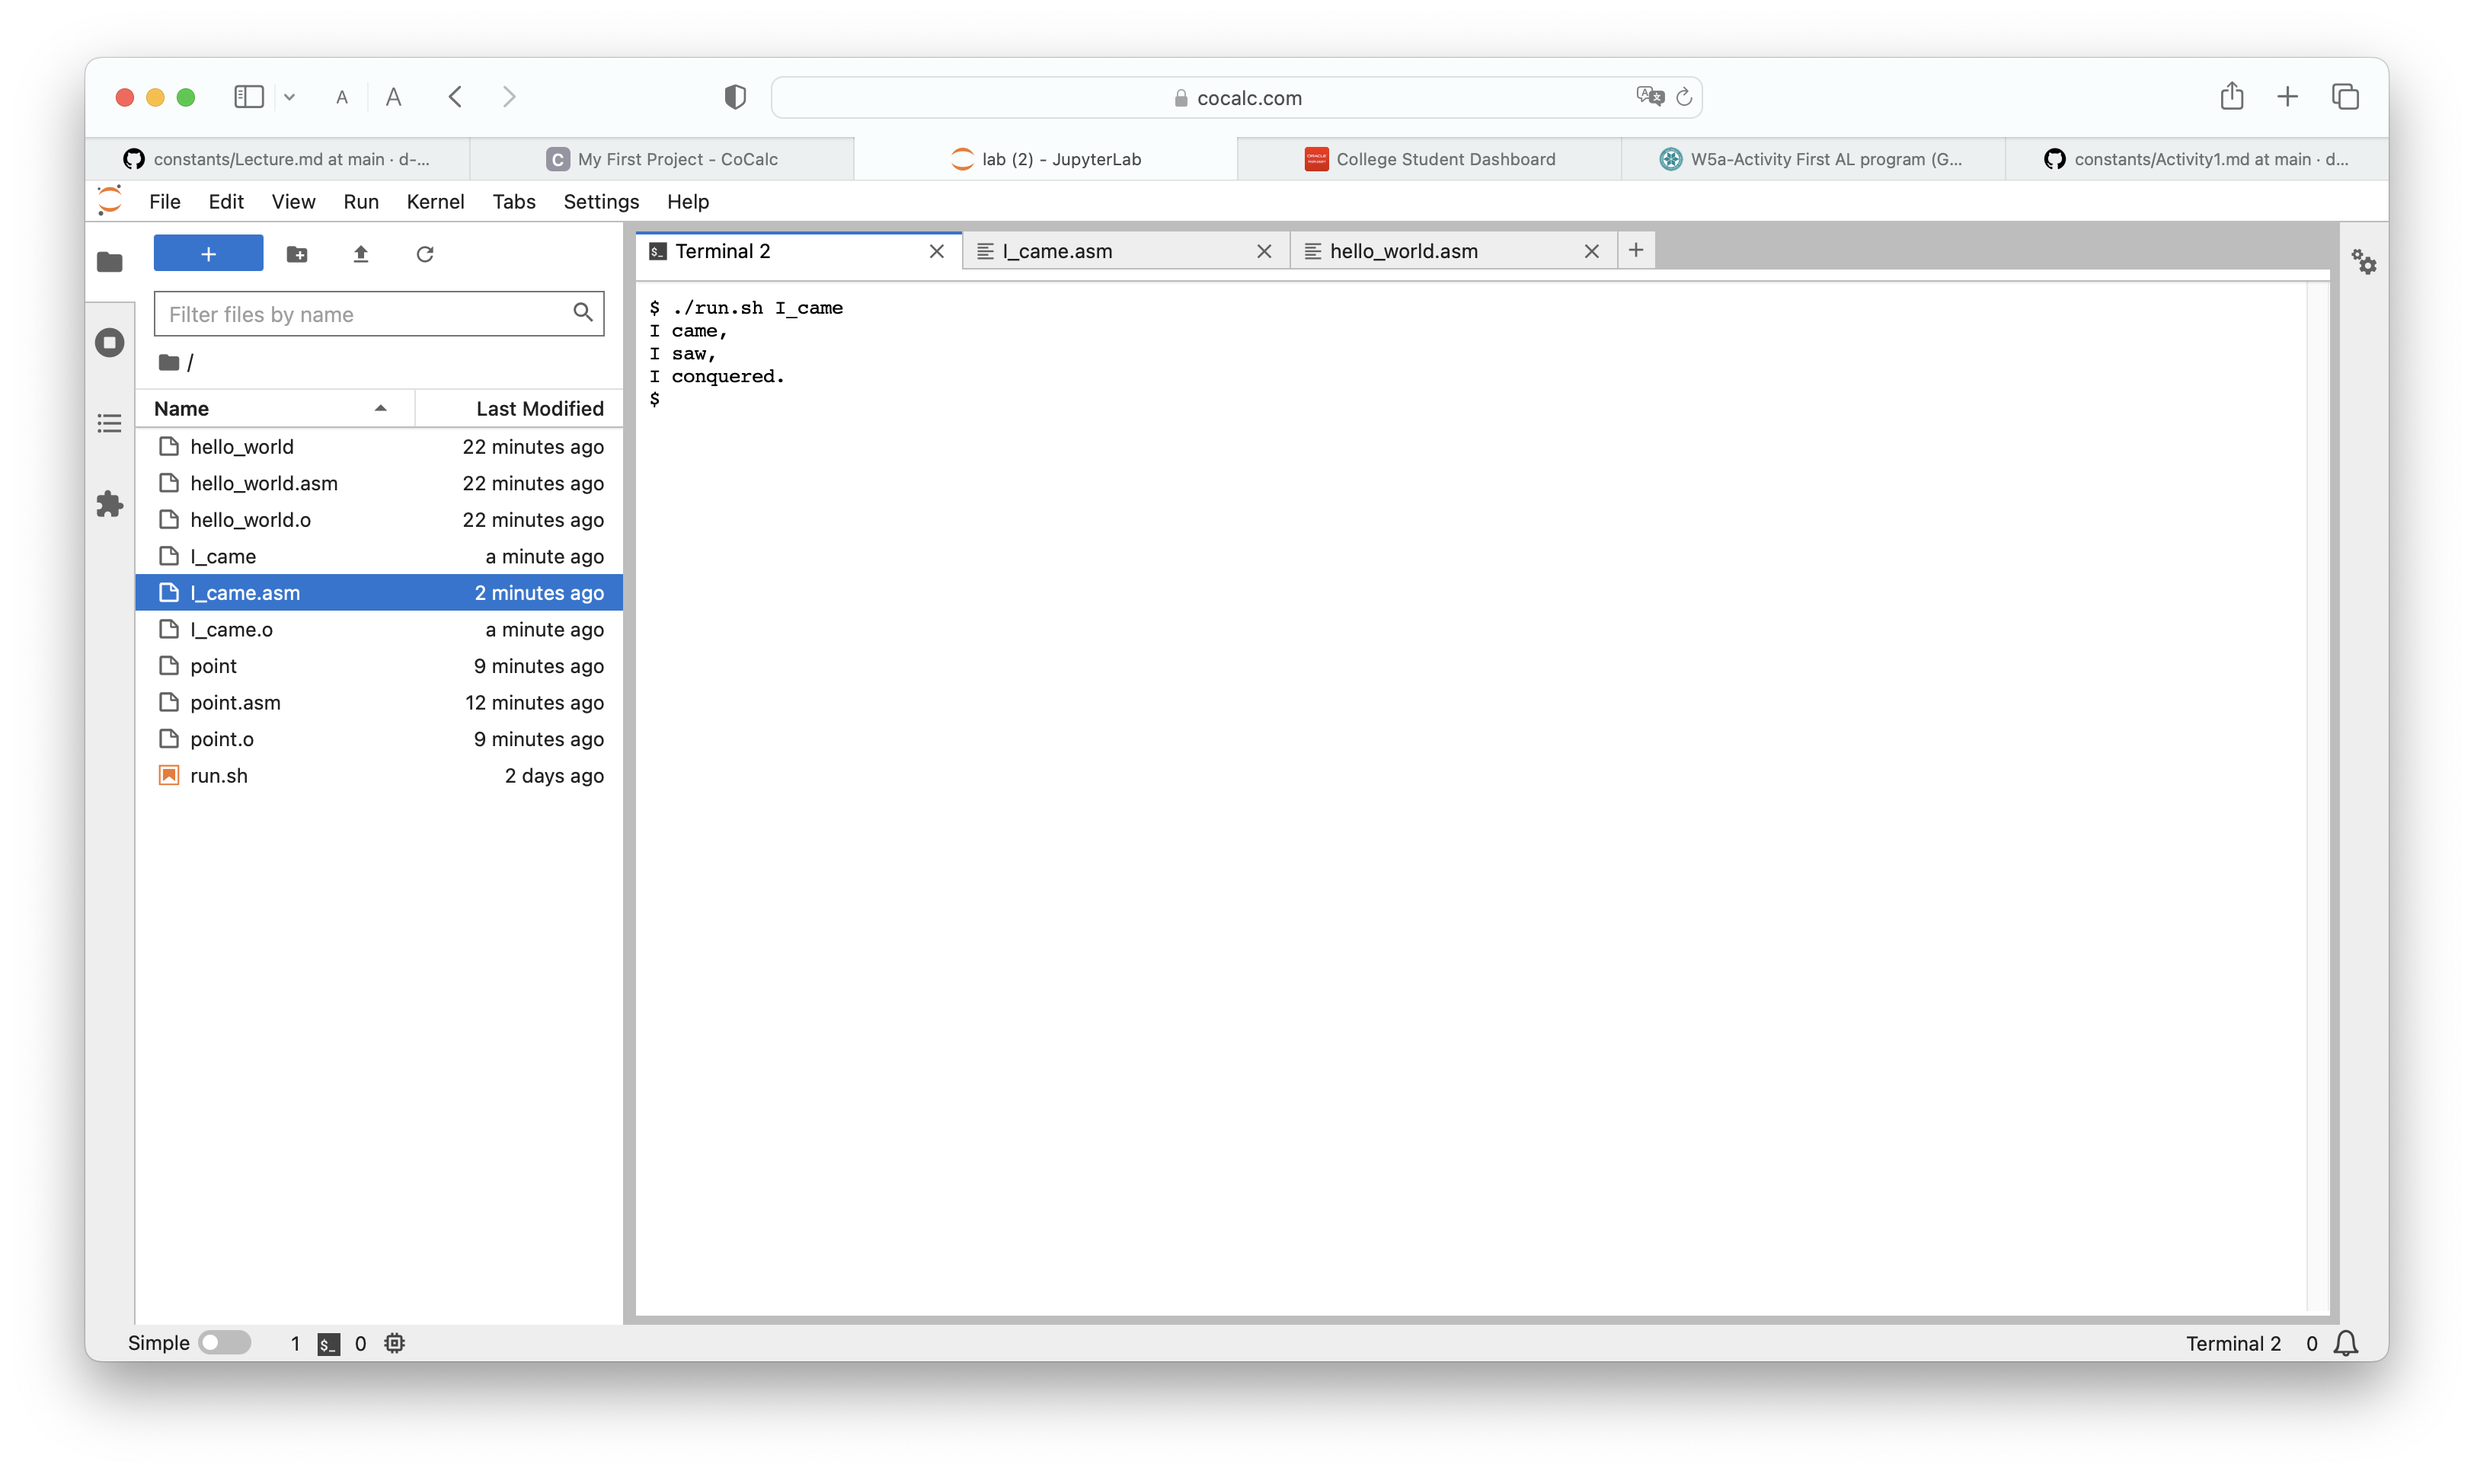
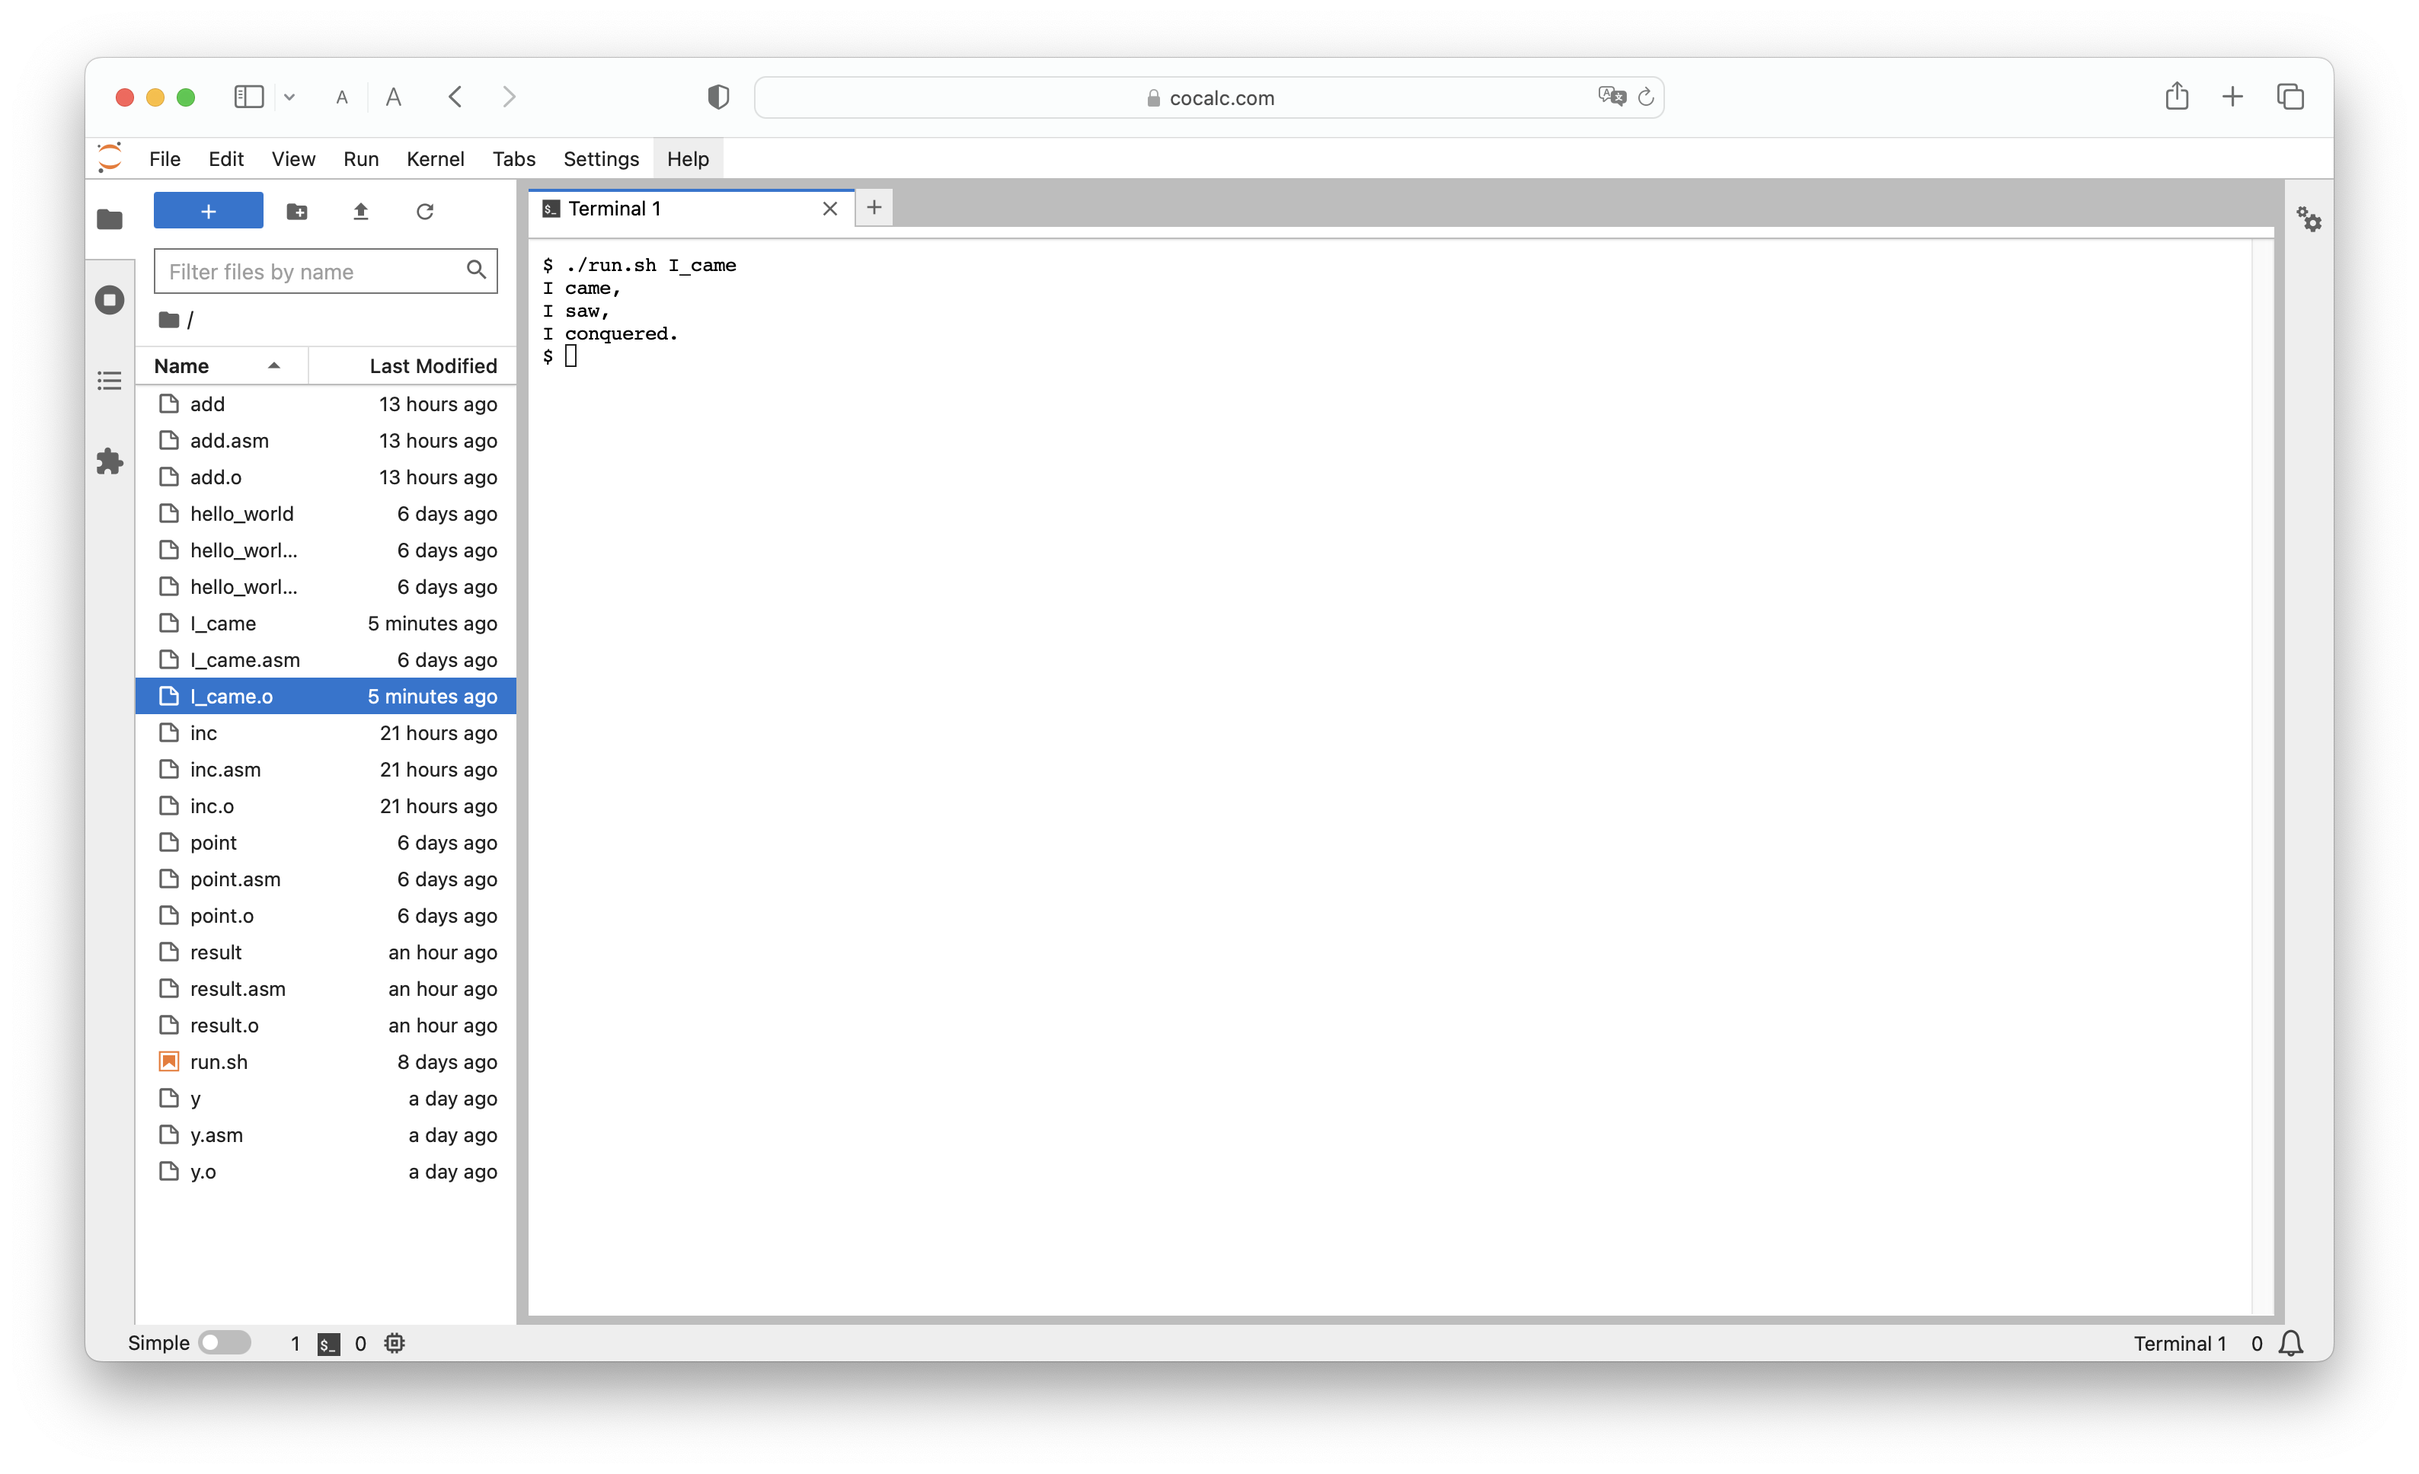
update

Changed region(s): [[0.0312, 0.093, 0.9663, 0.9298], [0.1247, 0.8988, 0.187, 0.9298], [0.0623, 0.8988, 0.0935, 0.9298]]

diff --git a/README.md b/README.md
@@ -1,2 +1,19 @@
 # Assembly_Language
 AL_programming
+
+## Messages
+```
+_start:	            ;tells linker entry point
+   mov	eax,4       ;system call number (sys_write)
+   mov	ebx,1       ;file descriptor (stdout)
+   mov	ecx,msg     ;message to write, A pointer to the variable 'msg'
+   mov	edx,len     ;message length
+   int	0x80        ;call kernel
+	
+   mov	eax,1       ;system call number (sys_exit)
+   int	0x80        ;call kernel
+
+section	.data
+    msg db 'I came,', 0xa, 'I saw,', 0xa, 'I conquered.',0xa 
+    len equ $ - msg
+```
